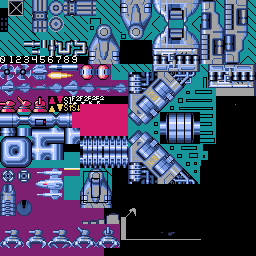
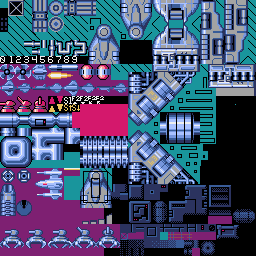
ステージ６に遠景を追加

Changed region(s): [[0.4375, 0.7188, 1.0, 1.0]]

diff --git a/source/boss.py b/source/boss.py
@@ -2193,16 +2193,27 @@ class BossLast1(enemy.EnemyBase):
 			enemy.Particle1.appendCenter(shot, rad)
 		if self.mode == 0:
 			if self.brokenState == 0 and self.hp < BossLast1.hp2:
+				# 初期状態
 				self.brokenState = 1
 				enemy.create_explosion(self.x +32+32, self.y +64+16+16, gcommon.C_LAYER_GRD, gcommon.C_EXPTYPE_GRD_M)
 			elif self.brokenState == 1 and self.hp < BossLast1.hp3:
+				# 先端が欠けた状態
 				self.brokenState = 2
 				self.mode = 1
-				self.state = 0
+				self.setState(0)
 				self.removeAllShot()
 				enemy.create_explosion(self.x +32+32, self.y +64+16+16, gcommon.C_LAYER_GRD, gcommon.C_EXPTYPE_GRD_M)
 				enemy.Splash.append(self.x +32+32+24, self.y +64+16+16, gcommon.C_LAYER_EXP_SKY)
 		return ret
+
+	def broken(self):
+		self.mode = 2
+		self.setState(0)
+		self.shotHitCheck = False
+		self.removeAllShot()
+		enemy.removeEnemyShot()
+		gcommon.sound(gcommon.SOUND_LARGE_EXP)
+		enemy.Splash.append(gcommon.getCenterX(self), gcommon.getCenterY(self), gcommon.C_LAYER_EXP_SKY)
 
 	def removeAllShot(self):
 		enemy.removeEnemyShot()
@@ -2457,7 +2468,7 @@ class BossLastBattery1Beam(enemy.EnemyBase):
 	def draw(self):
 		pyxel.blt(self.x, self.y, 2, 112, 64, 16, 16, 3)
 
-# ひし形ボス弾（ビームは間違っている）
+# ひし形ボス弾（ビームという呼称は間違っている）
 class BossLastDiamondBeam(enemy.EnemyBase):
 	points1 = [[0, 3],[11,0],[11,6]]
 	points2 = [[11,0],[11,6],[22,3]]

diff --git a/source/graslay.py b/source/graslay.py
@@ -916,6 +916,8 @@ class MapDrawLast:
 	def init(self):
 		gcommon.map_x = -32 * 8
 		gcommon.map_y = 24*8
+		gcommon.back_map_x = -32 * 8
+		gcommon.back_map_y = 0
 
 	def update0(self, skip):
 		pass
@@ -974,9 +976,16 @@ class MapDrawLast:
 		gcommon.map_x += gcommon.cur_scroll_x
 		gcommon.map_y += gcommon.cur_scroll_y
 		gcommon.map_y += gcommon.cur_map_dy
+		gcommon.back_map_x += gcommon.cur_scroll_x/2
 
 	def drawBackground(self):
-		pass
+		if gcommon.back_map_x >= 0:
+			if gcommon.back_map_x < 2:
+				gcommon.setBrightnessMinus1()
+			mx = (int)(gcommon.back_map_x/8)
+			pyxel.bltm(-1 * (int(gcommon.back_map_x) % 8), 0, 1, mx, 24,33,33, 3)
+			if gcommon.back_map_x < 2:
+				pyxel.pal()
 
 	def draw(self):
 		# if gcommon.map_x < 0:
@@ -1168,6 +1177,7 @@ class MainGame:
 			gcommon.draw_star = True
 			gcommon.eshot_sync_scroll = False
 			loadMapData(0, "assets/graslay_last.pyxmap")
+			loadMapData(1, "assets/graslay_lastb.pyxmap")
 			loadMapAttribute("assets/graslay_last.mapatr")
 			pyxel.tilemap(1).refimg = 1
 		#elif self.stage == 3:

diff --git a/source/gcommon.py b/source/gcommon.py
@@ -882,6 +882,24 @@ def setBrightness1():
 	pyxel.pal(14, 15)
 	pyxel.pal(15, 7)
 
+def setBrightnessMinus1():
+	pyxel.pal(1, 0)
+	pyxel.pal(2, 1)
+	pyxel.pal(3, 1)
+	pyxel.pal(4, 2)
+	pyxel.pal(5, 1)
+	pyxel.pal(6, 12)
+	pyxel.pal(7, 13)
+	pyxel.pal(8, 2)
+	pyxel.pal(9, 8)
+	pyxel.pal(10, 9)
+	pyxel.pal(11, 3)
+	pyxel.pal(12, 5)
+	pyxel.pal(13, 5)
+	pyxel.pal(14, 8)
+	pyxel.pal(15, 10)
+
+
 def clipLine(ip1, ip2, points):
 
 	# 描画領域と端点との Y 方向の距離を求める

diff --git a/source/enemy.py b/source/enemy.py
@@ -1799,6 +1799,7 @@ class Battery3(EnemyBase):
 		self.x = x
 		self.y = y
 		self.direction = direction
+		self.layer = gcommon.C_LAYER_GRD
 		self.ground = True
 		self.left = 2
 		self.right = 13
